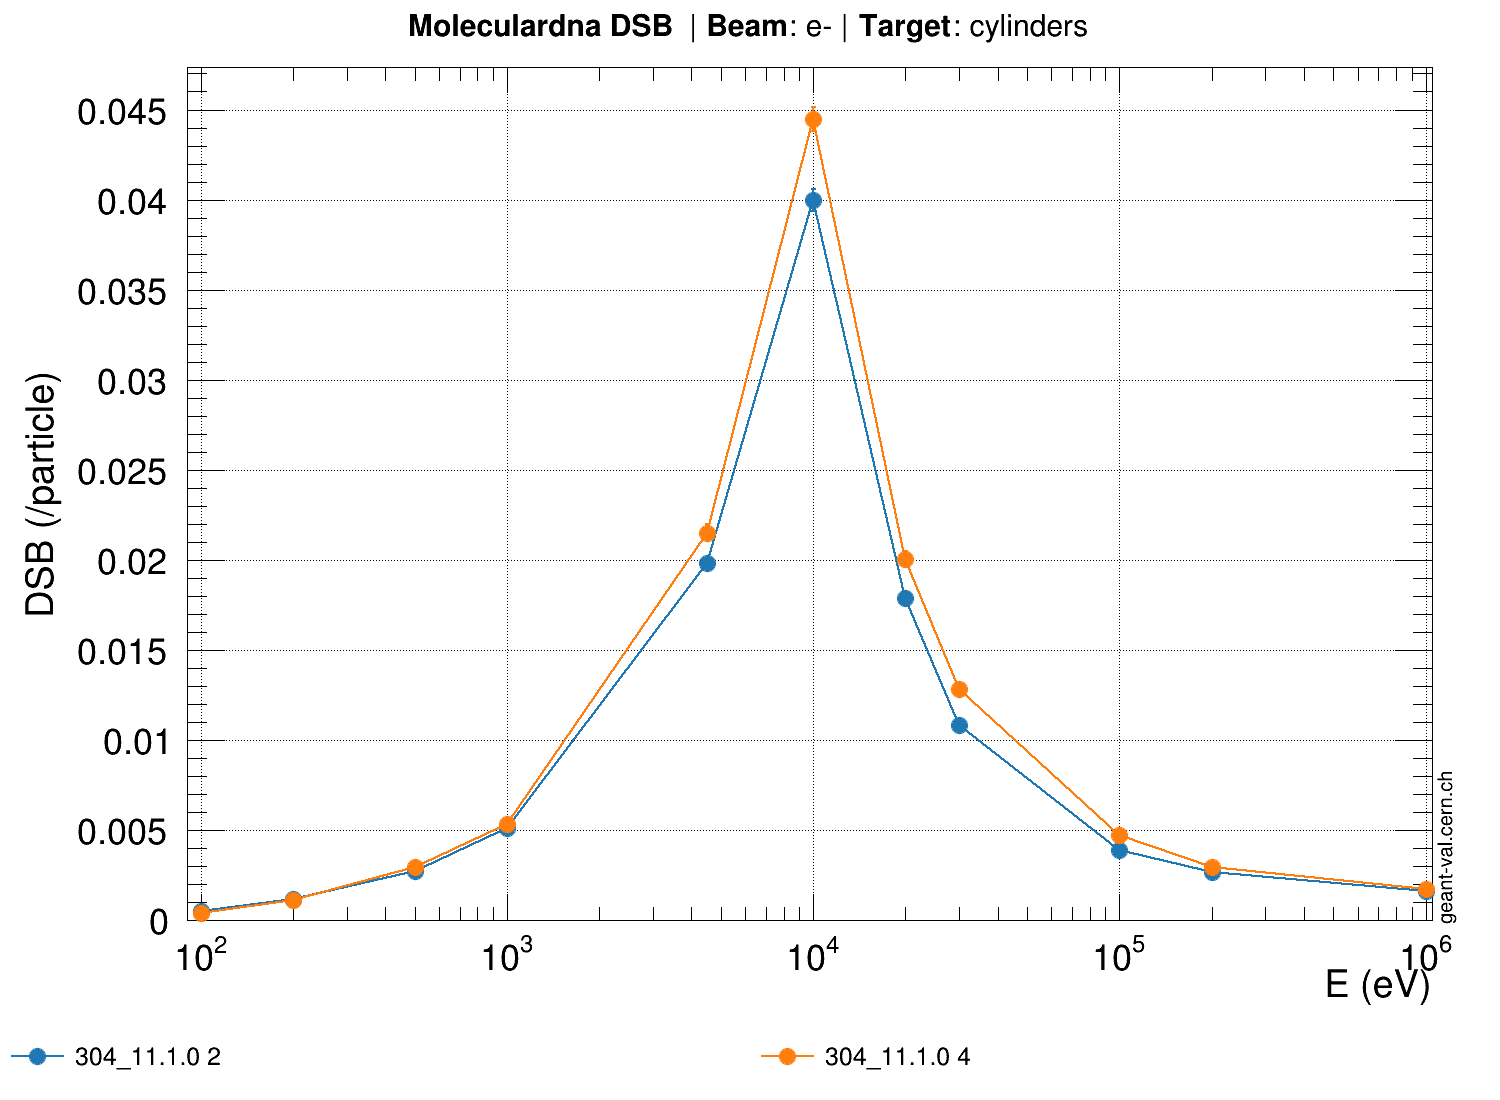
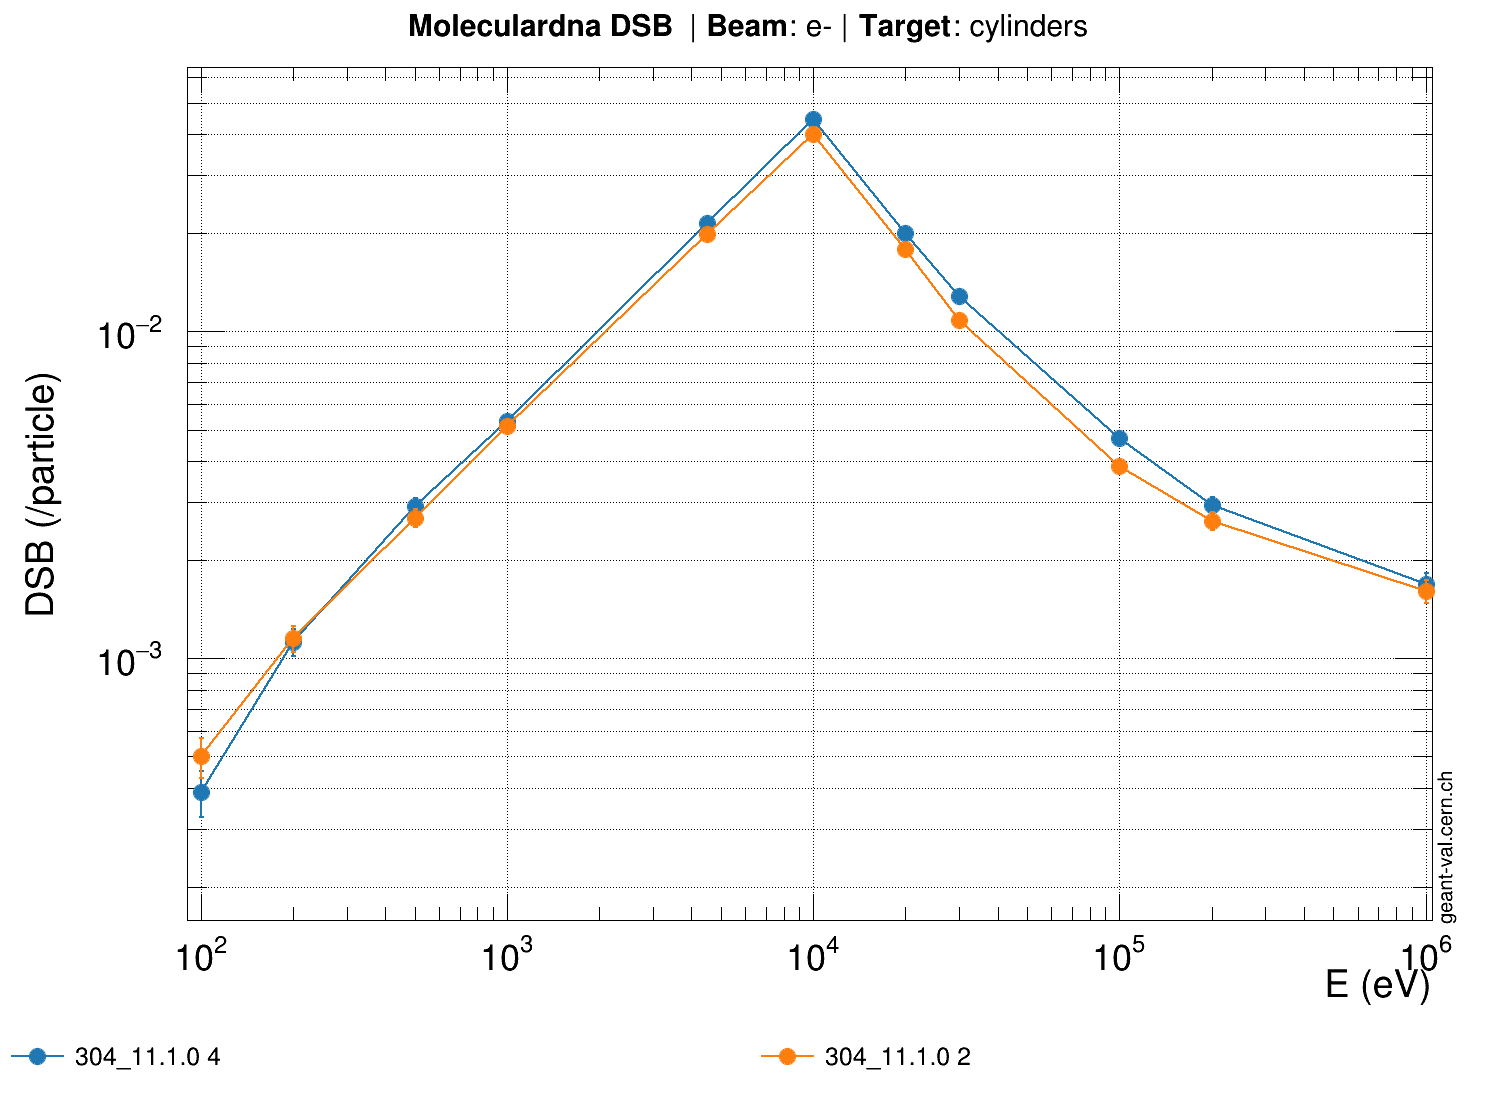
moleculardna/energy.conf/304_11.1.0 : mer. mars 22 11:14:17 CET 2023

diff --git a/assets/OUTPUTJSON/geant4/304_11.1.0/x86_64/moleculardna/energy.conf.c b/assets/OUTPUTJSON/geant4/304_11.1.0/x86_64/moleculardna/energy.conf.c
@@ -118,3 +118,123 @@ double gvp_id-1_yerrors[11] = {
   0.000172956,
   0.000129891
 };
+// Tool:               GEANT4
+// Version:            304_11.1.0
+// Model:              4
+// Observable:         moleculardna DSB
+// Target:             cylinders
+// Beam Particle:      e-
+// Secondary Particle: None
+
+double gvp_id-1_x[11] = {
+  100,
+  200,
+  500,
+  1000,
+  4500,
+  10000,
+  20000,
+  30000,
+  100000,
+  200000,
+  1e+06
+};
+double gvp_id-1_y[11] = {
+  0.00039,
+  0.00112,
+  0.00291,
+  0.00531,
+  0.0215,
+  0.04447,
+  0.02002,
+  0.01279,
+  0.0047,
+  0.00294,
+  0.00169
+};
+double gvp_id-1_xerrors[11] = {
+  0,
+  0,
+  0,
+  0,
+  0,
+  0,
+  0,
+  0,
+  0,
+  0,
+  0
+};
+double gvp_id-1_yerrors[11] = {
+  6.24381e-05,
+  0.000105771,
+  0.00017034,
+  0.000229823,
+  0.000463227,
+  0.00066613,
+  0.00044743,
+  0.000357303,
+  0.000217668,
+  0.000172956,
+  0.000129891
+};
+// Tool:               GEANT4
+// Version:            304_11.1.0
+// Model:              2
+// Observable:         moleculardna DSB
+// Target:             cylinders
+// Beam Particle:      e-
+// Secondary Particle: None
+
+double gvp_id-1_x[11] = {
+  100,
+  200,
+  500,
+  1000,
+  4500,
+  10000,
+  20000,
+  30000,
+  100000,
+  200000,
+  1e+06
+};
+double gvp_id-1_y[11] = {
+  0.0005,
+  0.00115,
+  0.00269,
+  0.00512,
+  0.01983,
+  0.03998,
+  0.01786,
+  0.0108,
+  0.00387,
+  0.00263,
+  0.0016
+};
+double gvp_id-1_xerrors[11] = {
+  0,
+  0,
+  0,
+  0,
+  0,
+  0,
+  0,
+  0,
+  0,
+  0,
+  0
+};
+double gvp_id-1_yerrors[11] = {
+  7.06933e-05,
+  0.000107177,
+  0.000163792,
+  0.000225695,
+  0.000443813,
+  0.000630412,
+  0.000424514,
+  0.000329294,
+  0.000197359,
+  0.00016196,
+  0.000127179
+};
